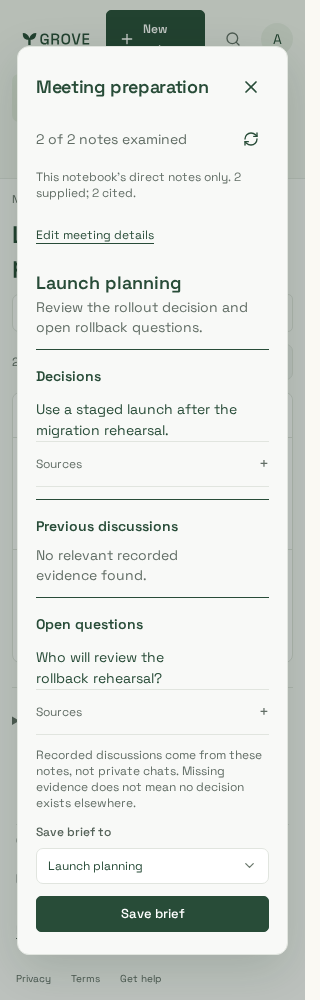
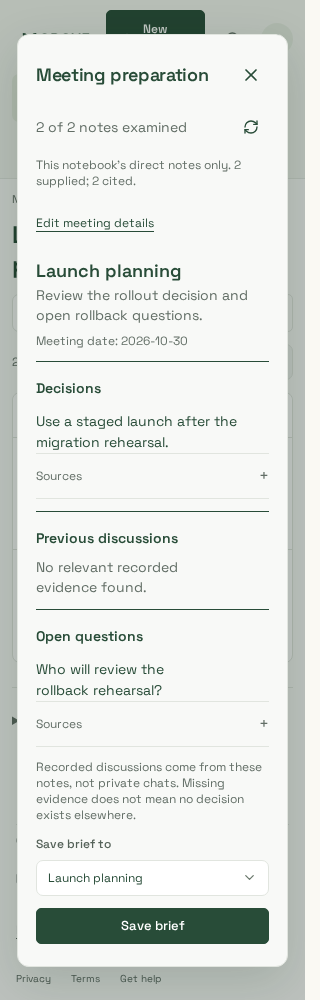
test(assistance): verify independent meeting opt-in and record delivery

Changed region(s): [[0.0312, 0.124, 0.9062, 0.992], [0.0312, 0.031, 0.9062, 0.093], [0.75, 0.124, 0.8125, 0.155]]

diff --git a/packages/website/tests/models.spec.ts b/packages/website/tests/models.spec.ts
@@ -176,7 +176,12 @@ test("categorized AI preferences persist independently with provider availabilit
     "Speech",
   ])
     await expect(page.getByRole("group", { name, exact: true })).toBeVisible();
-  await expect(page.getByRole("checkbox")).toHaveCount(16);
+  await expect(page.getByRole("checkbox")).toHaveCount(17);
+  const meeting = page.getByRole("checkbox", {
+    name: "Meeting preparation",
+    exact: true,
+  });
+  await expect(meeting).not.toBeChecked();
   const titles = page.getByRole("checkbox", {
     name: "Titles and tags",
     exact: true,
@@ -211,6 +216,11 @@ test("categorized AI preferences persist independently with provider availabilit
   await page.getByRole("button", { name: "Save preferences" }).click();
   await page.reload();
   await expect(titles).toBeChecked();
+  await expect(meeting).not.toBeChecked();
+  await meeting.check();
+  await page.getByRole("button", { name: "Save preferences" }).click();
+  await page.reload();
+  await expect(meeting).toBeChecked();
   await expect(
     page.getByRole("checkbox", { name: "Answers and writing", exact: true }),
   ).not.toBeChecked();
@@ -766,60 +776,124 @@ test("source-linked personal context exposes current revision links and honest q
   ).toHaveCount(0);
 });
 
-test("notebook summary coverage, compact refresh and exact source revisions stay accessible", async ({ page }, info) => {
-  const project = { id: "00000000-0000-4000-8000-000000000041", name: "Japan trip", identity: "japan", version: 1, parentId: null };
+test("notebook summary coverage, compact refresh and exact source revisions stay accessible", async ({
+  page,
+}, info) => {
+  const project = {
+    id: "00000000-0000-4000-8000-000000000041",
+    name: "Japan trip",
+    identity: "japan",
+    version: 1,
+    parentId: null,
+  };
   const id = "00000000-0000-4000-8000-000000000042";
   let pending = false;
   let finish!: () => void;
-  const held = new Promise<void>((resolve) => { finish = resolve; });
+  const held = new Promise<void>((resolve) => {
+    finish = resolve;
+  });
   await page.route("**/api/grove/**", async (route) => {
     const path = new URL(route.request().url()).pathname;
     let data: unknown = {};
     if (path.endsWith("/projects")) data = [project];
-    else if (path.endsWith("/me")) data = { accountId: "summary-owner", ...preferencesFor({}) };
-    else if (path.endsWith("/memories/search")) data = { items: [], nextCursor: null, searchMode: "lexical" };
+    else if (path.endsWith("/me"))
+      data = { accountId: "summary-owner", ...preferencesFor({}) };
+    else if (path.endsWith("/memories/search"))
+      data = { items: [], nextCursor: null, searchMode: "lexical" };
     else if (path.includes("/briefs")) {
-      if (path.endsWith("/refresh")) { await held; pending = true; }
+      if (path.endsWith("/refresh")) {
+        await held;
+        pending = true;
+      }
       data = {
-        scope: { projectId: project.id }, status: pending ? "pending" : "ready", profile: "summary-fixture",
-        sourceCount: 86, coverage: { total: 86, examined: 86, cited: 3 }, truncated: false,
+        scope: { projectId: project.id },
+        status: pending ? "pending" : "ready",
+        profile: "summary-fixture",
+        sourceCount: 86,
+        coverage: { total: 86, examined: 86, cited: 3 },
+        truncated: false,
         updatedAt: "2026-10-22T10:00:00Z",
-        content: pending ? null : { title: "A week in Japan", sections: [{ heading: "Bookings", statements: [{
-          text: "Take the night train to Kyoto.", sources: [{ id, version: 3 }],
-        }] }] },
+        content: pending
+          ? null
+          : {
+              title: "A week in Japan",
+              sections: [
+                {
+                  heading: "Bookings",
+                  statements: [
+                    {
+                      text: "Take the night train to Kyoto.",
+                      sources: [{ id, version: 3 }],
+                    },
+                  ],
+                },
+              ],
+            },
       };
-    } else if (path.endsWith(`/memories/${id}/revisions/3`)) data = {
-      id, version: 3, currentVersion: 5, content: "# Kyoto\n\nReserve the night train.",
-      createdAt: "2026-10-20T10:00:00Z", expiresAt: null,
-    };
+    } else if (path.endsWith(`/memories/${id}/revisions/3`))
+      data = {
+        id,
+        version: 3,
+        currentVersion: 5,
+        content: "# Kyoto\n\nReserve the night train.",
+        createdAt: "2026-10-20T10:00:00Z",
+        expiresAt: null,
+      };
     await route.fulfill({ json: { success: true, data } });
   });
   await page.goto(`${base}/app/projects/${project.id}`);
   await page.getByRole("button", { name: "Notebook options" }).click();
-  await page.getByRole("button", { name: "Summarize notebook", exact: true }).click();
-  await expect(page.getByText(/86 of 86 notes examined · 3 cited/)).toBeVisible();
-  const refresh = page.getByRole("button", { name: "Refresh summary", exact: true });
+  await page
+    .getByRole("button", { name: "Summarize notebook", exact: true })
+    .click();
+  await expect(
+    page.getByText(/86 of 86 notes examined · 3 cited/),
+  ).toBeVisible();
+  const refresh = page.getByRole("button", {
+    name: "Refresh summary",
+    exact: true,
+  });
   await expect(refresh).toHaveAttribute("title", "Refresh summary");
   for (const width of [1440, 390, 320]) {
     await page.setViewportSize({ width, height: 900 });
     await expect(refresh).toBeInViewport();
-    expect(await page.evaluate(() => document.documentElement.scrollWidth <= window.innerWidth)).toBe(true);
-    expect((await new AxeBuilder({ page }).withTags(["wcag2a", "wcag2aa", "wcag21aa"]).analyze()).violations).toEqual([]);
-    await page.screenshot({ path: info.outputPath(`notebook-summary-${width}.png`) });
+    expect(
+      await page.evaluate(
+        () => document.documentElement.scrollWidth <= window.innerWidth,
+      ),
+    ).toBe(true);
+    expect(
+      (
+        await new AxeBuilder({ page })
+          .withTags(["wcag2a", "wcag2aa", "wcag21aa"])
+          .analyze()
+      ).violations,
+    ).toEqual([]);
+    await page.screenshot({
+      path: info.outputPath(`notebook-summary-${width}.png`),
+    });
   }
   const before = await refresh.boundingBox();
   await refresh.click();
   await expect(refresh).toBeDisabled();
   expect(await refresh.boundingBox()).toEqual(before);
   finish();
-  await expect(page.getByRole("button", { name: "Check status" })).toBeVisible();
+  await expect(
+    page.getByRole("button", { name: "Check status" }),
+  ).toBeVisible();
   pending = false;
   await page.getByRole("button", { name: "Check status" }).click();
   await page.getByRole("link", { name: "Source 1 · revision 3" }).click();
-  await expect(page.getByRole("heading", { name: "Source · revision 3" })).toBeVisible();
-  await expect(page.getByText("Reserve the night train.", { exact: true })).toBeVisible();
+  await expect(
+    page.getByRole("heading", { name: "Source · revision 3" }),
+  ).toBeVisible();
+  await expect(
+    page.getByText("Reserve the night train.", { exact: true }),
+  ).toBeVisible();
   await expect(page.getByText("Current note: revision 5")).toBeVisible();
-  await expect(page.getByRole("link", { name: "Open current note" })).toHaveAttribute("href", `/app/memories/${id}`);
+  await expect(
+    page.getByRole("link", { name: "Open current note" }),
+  ).toHaveAttribute("href", `/app/memories/${id}`);
   await expect(page.getByRole("textbox")).toHaveCount(0);
   await page.screenshot({ path: info.outputPath("source-revision-320.png") });
 });

diff --git a/documentation/delivery.md b/documentation/delivery.md
@@ -1,5 +1,54 @@
 # Delivery evidence
 
+## Scoped meeting preparation — Phase A (25 October 2026)
+
+Meeting preparation is an independently opted-in, on-demand workflow from one
+notebook's direct notes or up to twelve selected saved revisions. Title, agenda and
+optional date lead to source-linked Decisions, Previous discussions and Open
+questions. Retrieval supplies at most twelve notes/24,000 characters from a bounded
+lexical candidate window, with one structured generation call and explicit partial
+coverage. No chat-history, descendant, calendar, attendee or web access is inferred.
+
+Exact citations, whole-scope/source/preference/profile publication fences, stable
+request/save retries, explicit cancellation and reviewed destination Save/Undo reuse
+the existing assistance infrastructure. Source notes remain unchanged; saved briefs
+retain coverage qualifications. Selected-source recovery preserves the agenda and
+never silently broadens scope. One completed generated brief uses one assistance
+action; actual provider-attempt evidence remains separate from user-action refunds.
+
+Forward migration **20261025_031_meeting_preparation** leaves authored data, provider
+usage and existing cleanup scheduling unchanged. The new worker-only cleanup
+scheduler handles thirty-day derived-preview expiry without replacing the retained
+scheduler. The preference defaults off and enables no background inference. The
+populated upgrade test verifies retained data, opt-outs, forced RLS and narrow grants.
+The existing admin migration test now asserts its named026→027 boundary before
+upgrading to the current schema; preservation assertions are retained.
+
+Implementation `daf189f` normally integrates subscription-badge development
+`06d8740` at verified source **56b675dcc1fdceeed6f354be678e13645e5d6b45**.
+Integrated verification: **446 backend passes, four optional S3/broker skips, zero
+failures**; root/site lint and types, root/production website builds, **nine artifact
+tests**, **50 CI/release/provider contracts**, workflow lint and bundle budgets pass.
+Production website build **TbNm5ggTLWqDzmLQS5OoP** keeps the Notes entry at **492,106
+gzip bytes** with deferred meeting UI. Five focused supported Noble WebKit cases
+pass. The initial full Chromium run passed241 cases and exposed an outdated
+sixteen-checkbox settings assertion after adding the seventeenth preference. The
+updated regression verifies default-off and explicit opt-in persistence independently
+of Ask, and passes in Chromium and WebKit; the full Chromium repeat is pending.
+
+The real UI→HTTP API→PostgreSQL/worker journey passes generation, source links,
+reviewed Save/Undo and unchanged originals, with no page errors, WCAG A/AA violations
+or horizontal overflow at1440/390/320px. All inference is deterministic synthetic
+test data, not a paid/live-model quality evaluation. [Four reviewed final-source
+captures](design/screenshots/meeting-preparation/README.md) include the real-service
+form/desktop/phone views and a WebKit partial-coverage/source disclosure.
+
+Weekly review/recurrence, study, knowledge gaps and similar past problems remain
+later phases, not implemented here. Large-scale retrieval performance, live-model
+grounding/cost/latency, physical-device behavior and production activation remain
+unqualified. No production migration, merge, provider/billing activation or deployment
+was performed; rollout is a separately authorized owner operation.
+
 ## Visible subscription and complimentary access (25 October 2026)
 
 The desktop/mobile workspace now keeps a small Free/Pro/Unlimited badge in its

diff --git a/documentation/design/screenshots/meeting-preparation/README.md b/documentation/design/screenshots/meeting-preparation/README.md
@@ -17,6 +17,12 @@ save replies, default-off opt-in, cancellation and exact-pin recovery without lo
 the agenda. The broader assistance tests retain offline expiry and existing flows.
 
 Reviewed at 1440/390/320px with WCAG A/AA, horizontal-overflow and page-error checks.
+The refreshed captures use source `56b675dcc1fdceeed6f354be678e13645e5d6b45`
+and production CSS/build `TbNm5ggTLWqDzmLQS5OoP`. The first three are Chromium
+real-service captures; the partial-source capture is supported Noble WebKit with a
+synthetic API response. Five focused WebKit cases pass, including lost replies,
+consent, cancellation, exact-pin recovery and offline expiry.
+
 Screenshots verify layout and browser behavior, not semantic model accuracy, paid
-provider latency or physical-device keyboards. Source/build and final test counts
-are recorded in [delivery](../../../delivery.md) after final verification.
+provider latency or physical-device keyboards. Verification counts and remaining
+qualification limits are recorded in [delivery](../../../delivery.md).
